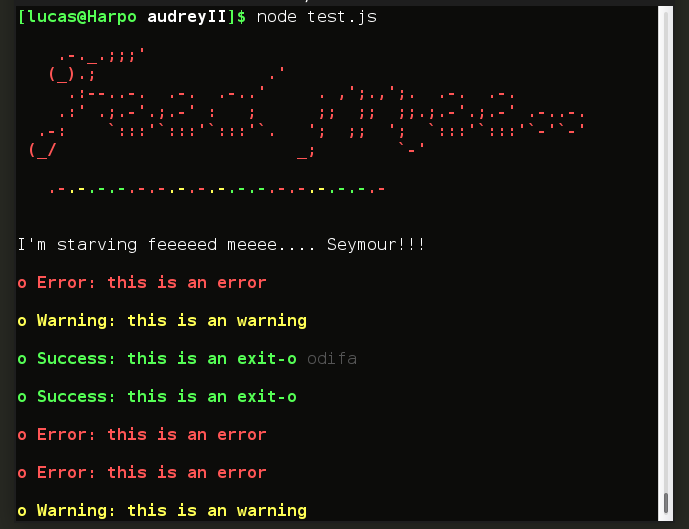
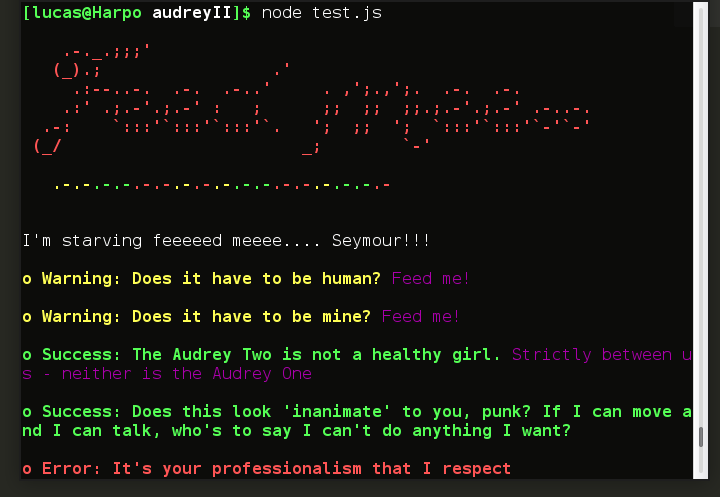
fixed lowercase bug, updated captura2 and readme

diff --git a/test.js b/test.js
@@ -37,7 +37,7 @@ var myTerminal={header: [ "brand" , "symbolProgress"],
    			   ,copyright:"Lucas_C / llucbrell",
 				symbolProgress:".-",
 				colors:
-				{ info: "grey",
+				{ info: chalk.magenta,
 				  mess:  chalk.bgGreen,
 				  warning: chalk.yellow.bold, 
 				  error: chalk.red.bold,
@@ -55,14 +55,15 @@ var audrey= audrey2(myTerminal);
 
 audrey.writeLine("");
 
-audrey.feed("E05","this is an error");
+
+audrey.feed("W05", "Does it have to be human?", "Feed me!");
+audrey.feed("W05", "Does it have to be mine?", "Feed me!");
+audrey.feed("S002", "The Audrey Two is not a healthy girl.", "Strictly between us - neither is the Audrey One");
+audrey.feed("S002", "Does this look 'inanimate' to you, punk? If I can move and I can talk, who's to say I can't do anything I want?");
+audrey.feed("E02", "It's your professionalism that I respect");
+audrey.feed("E02", " I find a little giggle-gas before I begin increases my pleasure enormously. ");
 audrey.feed("W05", "this is an warning");
-audrey.feed("S05","this is an exit-o", "odifa");
-audrey.feed("S05", "this is an exit-o");
-audrey.feed("E05", "this is an error");
-audrey.feed("E05","this is an error");
-audrey.feed("W05", "this is an warning");
-audrey.feed("E05","this is an error");
+audrey.feed("E02", "You'll be a deeeentist...");
 audrey.feed("W05", "this is an warning");
 audrey.feed("S05","this is an exit-o", "odifa");
 audrey.feed("S05", "this is an exit-o");

diff --git a/index.js b/index.js
@@ -169,11 +169,11 @@ function printErrors(bool){
    suc=0;
   //count errors and breaks if something is wrong
   terminal.errors.forEach(function(element){
-    if(element.code[0]=== "E"){
+    if(element.code[0]=== "E" ||element.code[0]=== "e"){
           ers++;
          // break;
     }
-    else if(element.code[0]=== "W"){
+    else if(element.code[0]=== "W"|| element.code[0]=== "w"){
           warn++;       
    }
    else{
@@ -191,13 +191,13 @@ printMess();
 if(bool!==false){
  terminal.errors.forEach(function(element){
   //console.log(indexErrors[i], messageErrors[i]);
-    if (element.code[0]=== "S"){
+    if (element.code[0]=== "S" || element.code[0]=== "s"){
       aSuccess(element);
     }
-    else if(element.code[0]=== "W"){
+    else if(element.code[0]=== "W" || element.code[0]=== "w"){
       aWarning(element);
     }
-    else if(element.code[0]=== "E"){
+    else if(element.code[0]=== "E" || element.code[0]=== "e"){
       aError(element);
     }
    });

diff --git a/readme.md b/readme.md
@@ -1,16 +1,32 @@
 # Audrey-2
 
-> View Control for CLI
+> View Control for Command Line Interface
 
 ![](https://raw.githubusercontent.com/llucbrell/audrey2/master/audrey.png)
 
+When we build a CLI (Command Line Interface) we can find some troubles. While the software stays small it's easy to mantain and work with it. But as much a it grows... It could be a work for someone out of space.
 
-Node module as an object factory. Create a VCCLI and apply the model-view-control on your nodeJS command line apps. 
+
+Click this [link](https://en.wikipedia.org/wiki/Model%E2%80%93view%E2%80%93controller) if you'r interested in the MVC architecture style that Audrey want to apply.
 
 
-Feed Audrey with object errors after commands actions. This carnivorous plant get charge of the output console display and give a little sugar for your console users.
+## Specifications
 
-Feed Audrey with a header, footer & data for displaying. She'll grow big and strong!
+This code try to complement other CLI tools like commander, unicorn etc., to implement the MVC on your terminal apps.
+If you bind Audrey with them you can convert this tools in a complete and functional controller.
+Commander and others update the model, and call Audrey to give you the power of update view/s. 
+
+Audrey it's build as a nodeJS module, precisely as an clousure object factory. That way Audrey doesn't inffer in the code of your app.
+
+## How it does? 
+
+Feed Audrey with object errors and data extracted from your commands actions. This carnivorous plant get charge of the output console display and give to your users a little of sugar rather than only an ugly output option. 
+
+You can combine one or more Audreys with your favorite nodeJS-CLI. Then you get more control of what you display and the way you do. And of course, you don't need to think so much about code-flow.
+
+
+If you feed Audrey with a header, footer & data for displaying... 
+It'll grow big and strong!
 
 
 ## Install
@@ -23,16 +39,6 @@ $ npm install audrey2
 ## Usage
 
 ```js
-var color='red';//'blue', 'green', etc.,  
-
-/* You also can use your own chalk color
- * combinations to give it more style
- * as 
- * var chalk=require('chalk');
- * var color=chalk.bgGreen;
- */
-
-
 var audrey2= require('audrey2');
 var audrey= audrey(myTerminalDisplay);
 
@@ -46,7 +52,7 @@ audrey.feed("W01", "A plant from out Space!");
 //you can show success on the console too
 audrey.feed("S001", "I'm Alive!");
 //or pass some auxiliar to print in the same line
-adrey.feed("s002", "This is an new kind of plant", cli.name);
+adrey.feed("S002", "This is a new kind of plant!", cli.name);
 audrey.debug();
 ```
 
@@ -67,7 +73,7 @@ audrey.writeLine(data);
 
 ## Debug mode on... off
 
-You can hide the errors by passing a boolean false to the method.
+You can hide the errors by passing a boolean false to the method. In this case audrey only print the header and the body. This is a feature added for --verbose cli option. 
 
 ![](https://raw.githubusercontent.com/llucbrell/audrey2/master/captura2.png)
 
@@ -90,7 +96,7 @@ Audrey has some basic components to give you a some custom options. Put, whateve
 
 ## Custom Object
 
-You can customize almoust everything in Audrey VCCLI. The view is divided, as a basic HTML does. 
+This is the view of the MVC. You can customize almoust everything in Audrey View. The view is divided, as a basic HTML does. 
 
 >Header 
 
@@ -98,9 +104,9 @@ You can customize almoust everything in Audrey VCCLI. The view is divided, as a 
 
 >Footer
 
-You must use this parts to organize your view.
-Create an object as next and send it to Audrey.
+You must use this parts to organize your view. Include name components inside this arrays and define them outside using the same name.
 
+Look at this terminal options defined before send it to Audrey.
 
 ```js
 var terminal={ 
@@ -117,8 +123,36 @@ var terminal={
         }
 }
 ```
+## Colors
+
+Audrey also gives you some colors to choose.
 
 
+```js
+var red='red';//'blue', 'green', etc.,  
+```
+
+You also can use your own chalk color
+combinations to give it more style
+as..
+
+```js
+  var color=chalk.bgGreen;
+```
+Remember to install the chalk module or you'lll find an error.
+
+
+## Contribute
+
+Help Audrey to grow with human blood..
+Now, choose one of this topics and don't become a dentist!
+
+-terriffic table display
+-bloody progress bar
+-Feed audrey with data from temp files
+
+<!---display of more than ascii symbols
+-->
 
 ## License
 
